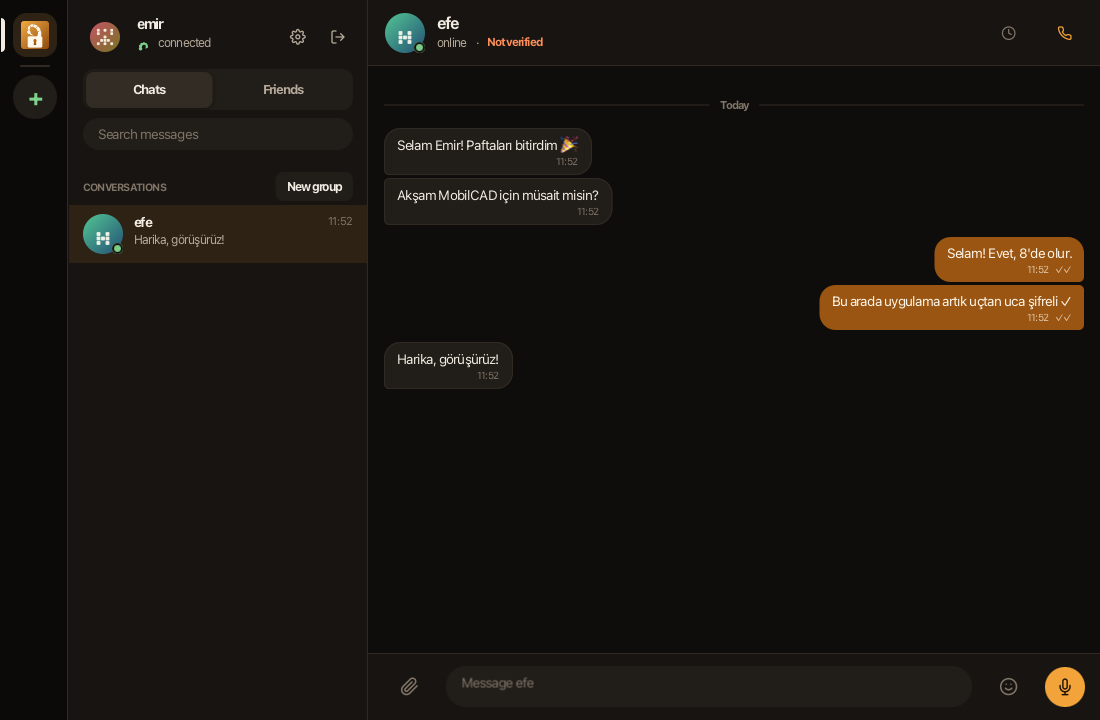
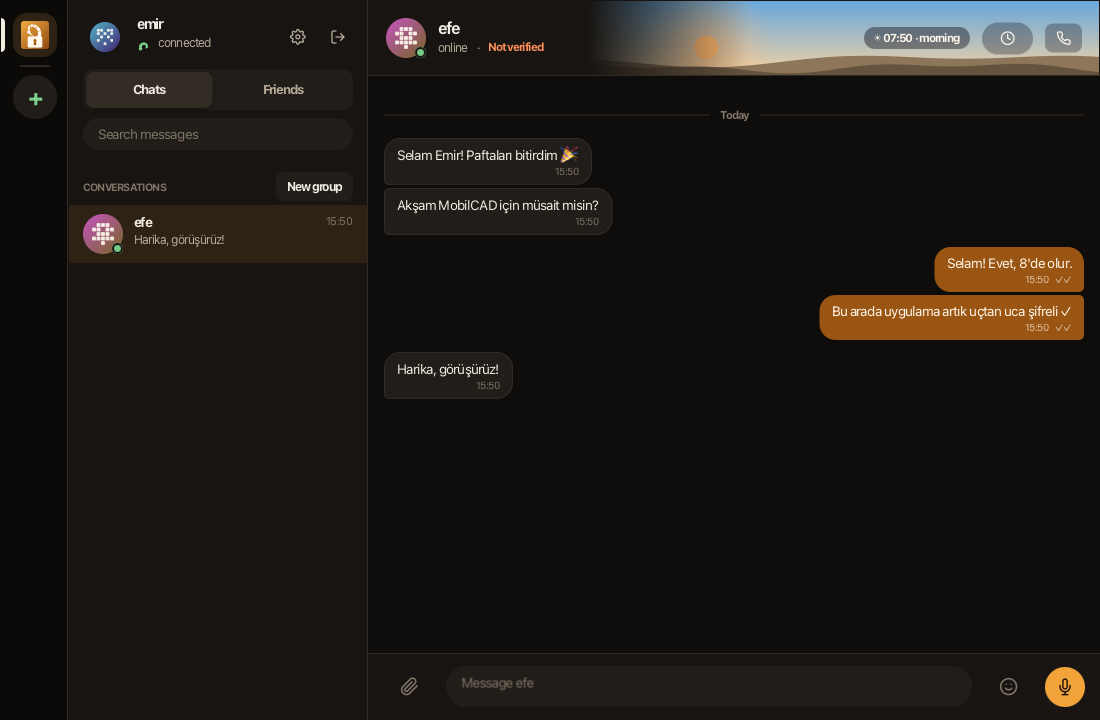
Docs and screenshots for the desert world
README: the campfire, the map of oases, a friend's sky, welcome back,
@mentions and sand; places and time zones in the security design; what
they reveal under limitations; the new tests. CHANGELOG updated, new and
retaken screenshots.

diff --git a/README.md b/README.md
@@ -12,10 +12,10 @@ the server relays and stores messages it cannot read. This repository was called
 before the desktop app got its name.
 
 <p align="center">
-  <img src="docs/screenshots/markdown-dark.png" width="420" alt="Formatted messages with a code block, and the hover tools">
-  <img src="docs/screenshots/poll-dark.png" width="420" alt="A community channel with a topic, a poll and a thread">
-  <img src="docs/screenshots/voice-room-dark.png" width="420" alt="A voice room: faces light up while people talk">
-  <img src="docs/screenshots/account-group-light.png" width="420" alt="A group chat in the light theme">
+  <img src="docs/screenshots/campfire-dark.png" width="420" alt="The campfire: a voice room you walk around in, voices by distance and side">
+  <img src="docs/screenshots/map-dark.png" width="420" alt="A community as a map of oases">
+  <img src="docs/screenshots/sky-dark.png" width="420" alt="A friend's night sky in the chat header (it is 4 a.m. in New York)">
+  <img src="docs/screenshots/catchup-dark.png" width="420" alt="Welcome back: what happened while you were away">
 </p>
 
 It started as a small socket chat that "encrypted" messages with a hard-coded AES key in ECB
@@ -124,6 +124,19 @@ java -jar secure-chat.jar gui --home ./bob
   a waveform you can click to seek. They are ordinary encrypted attachments.
 - **Pictures and files**: drag files onto a chat, paste a screenshot or copied files, and browse
   the pictures of a chat in a full-window viewer.
+- **The campfire**: a voice room is a desert at night with three fires, seen from above. Sit
+  anywhere: voices are as loud as people are near and come from their side (stereo), so a room
+  can split into little circles. Drag yourself or click the sand; the rings around you show how
+  far you hear.
+- **The map of oases**: a community is shown as a desert where every channel is an oasis. Rings
+  on the water mean unread messages, smoke means people talked in the last hour, sand covers a
+  channel quiet for a week, and a campfire burns where people are in voice.
+- **Your friend's sky**: the chat header shows the sky where your friend is right now (dawn,
+  noon, sunset, stars and the moon) with their local time, if they share their time zone.
+- **Welcome back**: after a while away, a screen with your own sky, how long you were gone, and
+  what is waiting: mentions of you, polls without your vote, replies in your threads, the busiest
+  chats. **@mentions** are highlighted and suggested while typing.
+- **Messages turn to sand**: deleted and disappearing messages blow away as grains of sand.
 - **Quick switcher**: Ctrl+K (⌘K) jumps to any chat, channel, friend or action.
 - **Appearance**: light, dark or system theme, five accent colours, text size, compact mode,
   reduce motion, and a choice of notification sounds.
@@ -340,7 +353,7 @@ Users then authenticate with their password inside the channel. Low-order X25519
 
 ### Tests
 
-`mvn verify` runs 225 tests, including RFC 5869 test vectors and attack scenarios:
+`mvn verify` runs 234 tests, including RFC 5869 test vectors and attack scenarios:
 
 - **Transport**: tampered, replayed, reordered and reflected records; an impersonated client or
   server presenting a different key; tampered handshake messages.
@@ -363,7 +376,11 @@ Users then authenticate with their password inside the channel. Low-order X25519
   keys expire after rotations; muting sends nothing; a removed listener who never speaks is cut off.
 - **Polls, pins, topics, threads**: delivered whole in chats and groups, one vote per person, poll
   limits, and a text message can never pose as a poll.
-- **Desktop logic**: the Markdown parser (nesting, `snake_case`, unclosed markers, code
+- **The campfire**: places reach the others and distance decides who is heard (far away is
+  silent, close again is heard); seats never overlap; volume and left-right panning by distance.
+- **Desktop logic**: the welcome-back digest (mentions but not e-mail addresses, polls without
+  your vote, replies in your threads), the sky's colours, sun and moon through the day, time zone
+  validation, the Markdown parser (nesting, `snake_case`, unclosed markers, code
   colouring), emoji names, slash commands, the quick switcher's matching, avatar patterns, voice
   message files and waveforms, and line breaks surviving the sanitizer while control characters
   do not.
@@ -401,10 +418,18 @@ packet   = u32 keyId ‖ u64 seq ‖ AES-256-GCM(key, nonce = keyId ‖ seq,
 ```
 
 Each participant sends with their own key and receives with everyone else's, mixing the voices
-locally. Because keys change whenever the room changes, a person who left cannot decrypt what is
+locally. The campfire's places travel in the same encrypted packets (the first byte of the
+plaintext tells audio from a place), so the server neither stores where people sit nor can tell
+movement from speech; each client sets every voice's volume by distance and pans it left or right. Because keys change whenever the room changes, a person who left cannot decrypt what is
 said after; clients also replace their key as soon as the member list shows a removal. Packets
 are bound to the room and the sender (one cannot pass off another's audio), and a receiver takes
 each sequence number once and never an older one.
+
+### Time zones
+
+A friend's sky needs their time zone, which is sent as an end-to-end encrypted action in a
+direct chat, only while they are online (never queued on the server), and only as a region id
+such as `Europe/Istanbul`; anything else is refused. Sharing can be turned off in Settings.
 
 ### Polls, pins, topics and threads
 
@@ -431,6 +456,10 @@ Honest notes on what this project does **not** do:
 - **Voice rooms**: the server sees who is in which room and when; at most 12 people per room. Room
   keys are handed to every member of the channel (anyone who can read the channel may also
   listen), and nobody else can join.
+- **A time zone says roughly where you are.** Friends you chat with see it unless you turn
+  sharing off. In a voice room, everyone in it sees where you sit at the fire.
+- **The welcome-back summary and the map** are computed from the history on this computer, so
+  they only know what this computer has received.
 - **Topics and pins are not stored on the server**, so people who join a channel later do not see
   earlier ones. Dice and coins are thrown on the sender's computer; reminders stay on this
   computer and are lost if the app is closed.

diff --git a/CHANGELOG.md b/CHANGELOG.md
@@ -30,6 +30,16 @@ as messages it could not read.
 - **Appearance settings**: theme, five accents, text size, compact mode, reduce motion and
   synthesised notification sounds.
 - Empty screens with a small desert scene.
+- **The campfire**: voice rooms as a desert at night with three fires; sit anywhere, voices by
+  distance and from their side (stereo), drag yourself or click the sand. Places travel inside
+  the room's encryption and are never stored.
+- **The map of oases**: a community as a desert map, each channel an oasis that shows unread
+  messages, recent talk, a week of quiet or people in voice; pan, zoom, click to go in.
+- **Your friend's sky** in the chat header, from the time zone they share (optional).
+- **Welcome back** after a while away: your own sky, how long you were gone, mentions of you,
+  polls without your vote, replies in your threads and the busiest chats; **@mentions** with
+  suggestions.
+- **Messages turn to sand** when deleted or when they disappear.
 
 ### Changed
 - Conversations load 80 messages at a time (older ones when scrolling up) and decrypt pictures only
